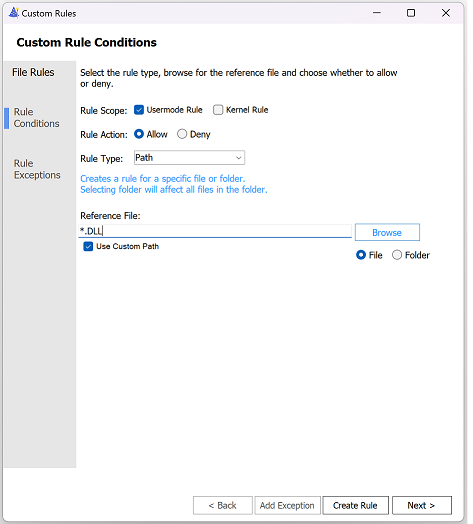
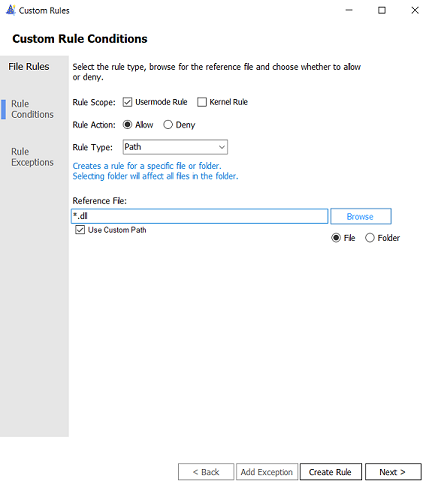
PR blocking feedback

diff --git a/windows/security/threat-protection/windows-defender-application-control/operations/known-issues.md b/windows/security/threat-protection/windows-defender-application-control/operations/known-issues.md
@@ -105,9 +105,9 @@ If the AppId Tagging Policy wasn't built off the WDAC base templates or doesn't 
 
 If you can't allowlist the Windows signers, or build off the WDAC base templates, it is strongly recommended to add the following rule to your policies to improve the performance:
 
-![Allow all DLLs in the policy.](../images/appid-DLL-rule.png) 
+:::image type="content" source="../images/appid-dll-rule.png" alt-text="Allow all dlls in the policy.":::
 
-![Allow all DLLs in the XML policy.](../images/appid-DLL-rule-xml.png)
+:::image type="content" source="../images/appid-dll-rule-xml.png" alt-text="Allow all dll files in the xml policy.":::
 
 
-Since AppId Tagging policies evaluate but can't tag DLLs, this rule will short circuit DLL evaluation and improve evaluation performance.
+Since AppId Tagging policies evaluate but can't tag dll files, this rule will short circuit dll evaluation and improve evaluation performance.
